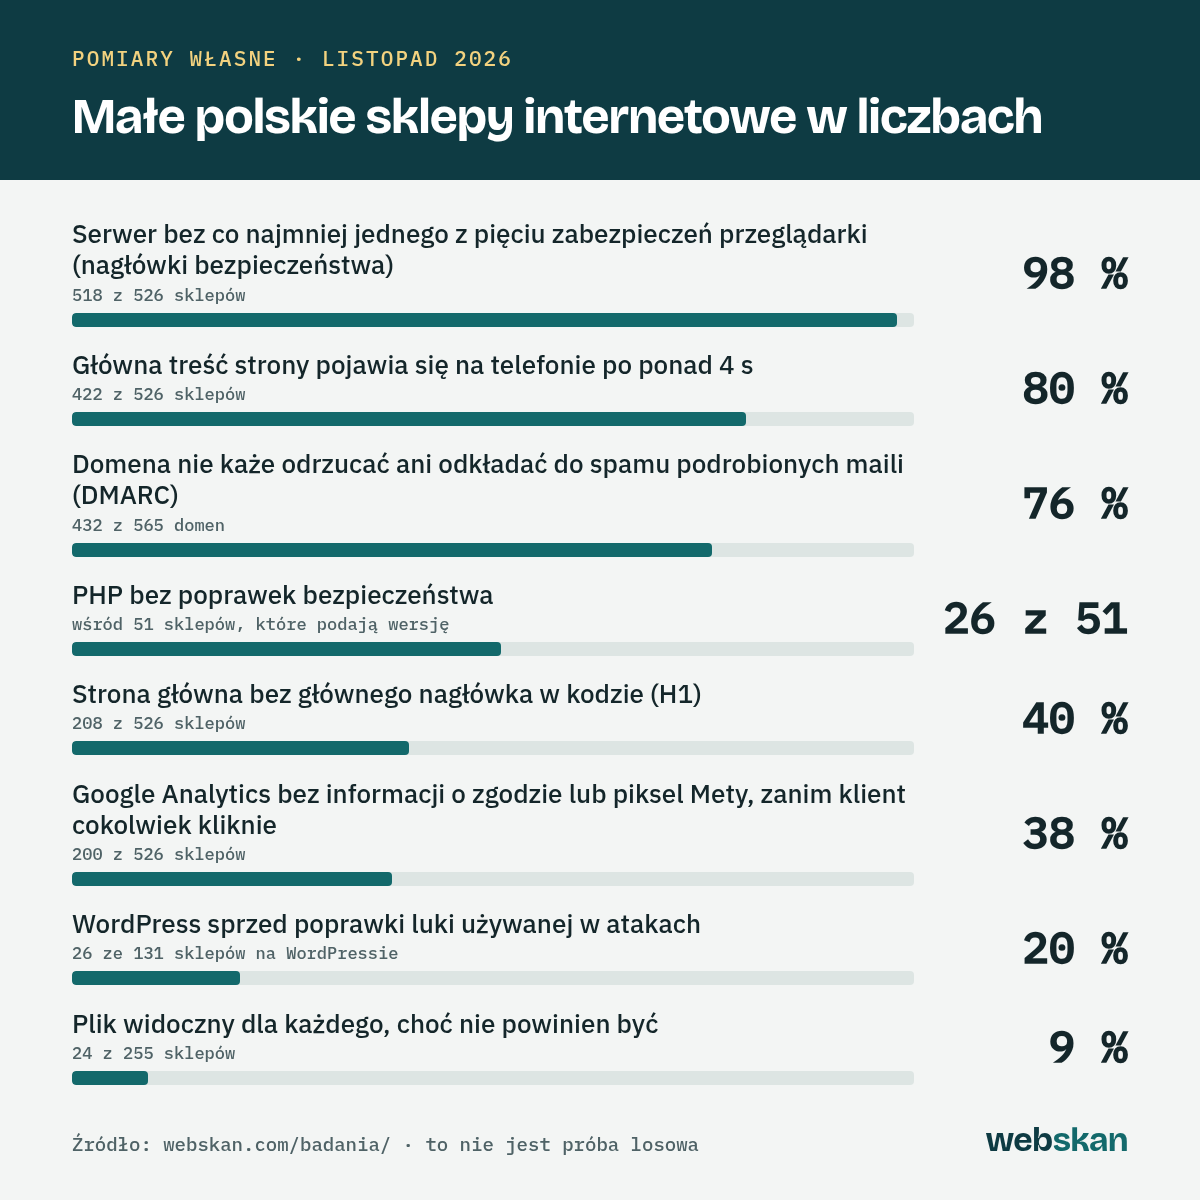
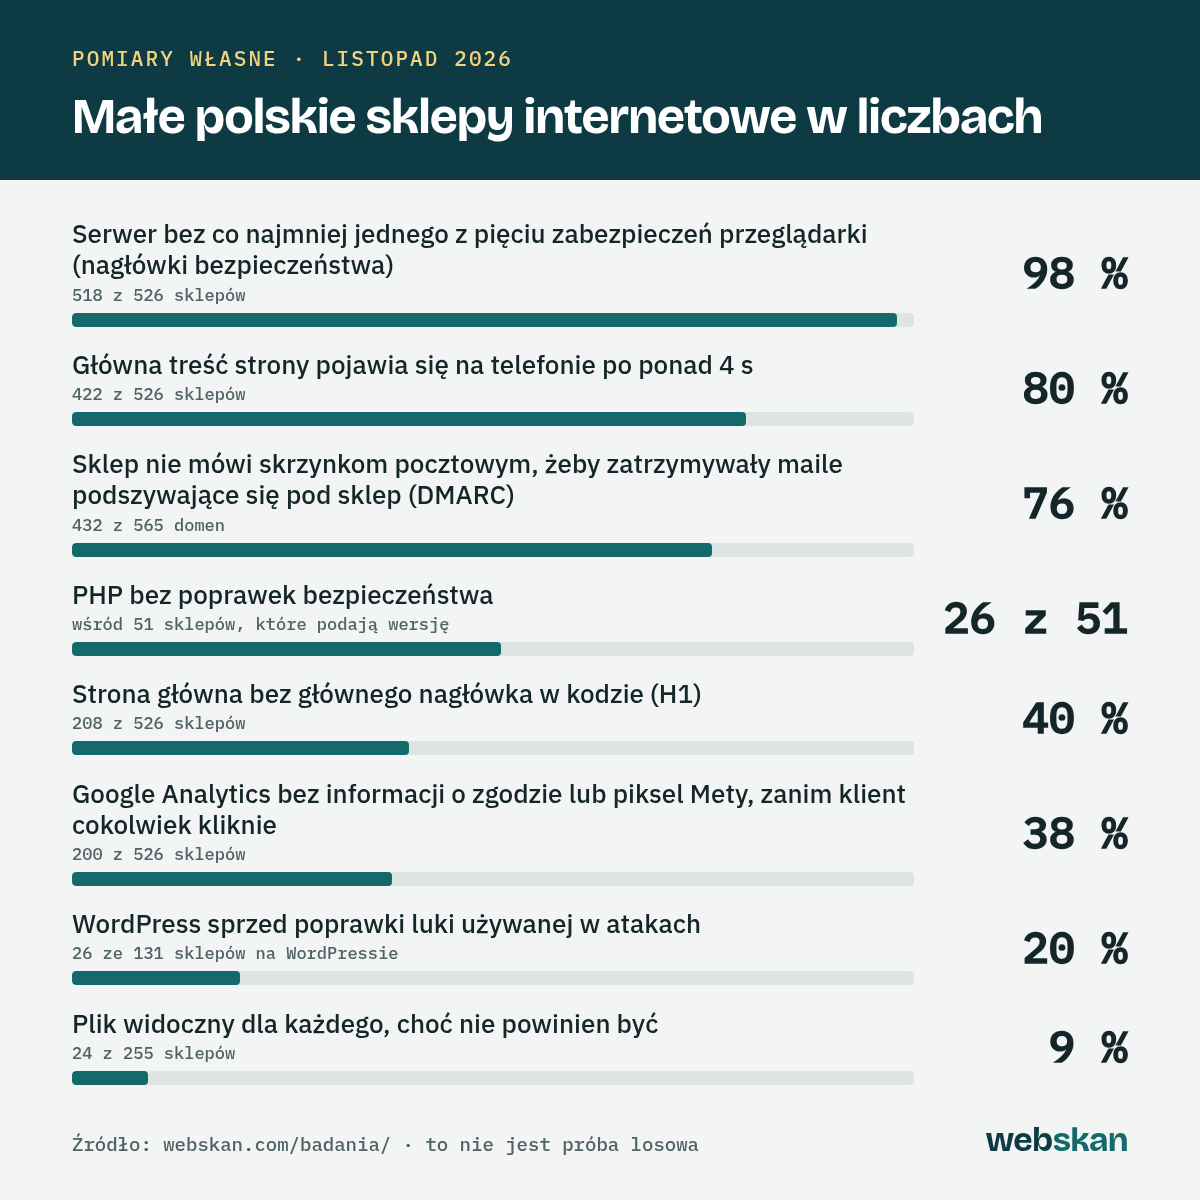
badania: przycisk skanu pod kartami i tabelą, etykiety tabeli pogrubione bez podkreślenia, wyniki krojem z kart, prostsze zdanie o poczcie, granica przed częścią techniczną, karty w dwóch szpaltach, skąd 547

Changed region(s): [[0.0617, 0.37, 0.74, 0.4317]]

diff --git a/public/badania/index.html b/public/badania/index.html
@@ -9,7 +9,8 @@
 <h1>Małe polskie sklepy internetowe w liczbach</h1>
 <p class="lead">Własne pomiary z listopada 2026 r.: szybkość, bezpieczeństwo, aktualizacje, poczta, analityka i podstawy SEO. Przy każdej liczbie jest próba, data pomiaru i metoda.</p>
 </section>
-<section class="kpis three" aria-label="Trzy liczby na początek"><a class="kpi" href="#szybkosc"><b>8,7 s</b><span>Tyle w typowym sklepie klient czeka na główną treść strony w teście na przeciętnym telefonie z wolnym łączem. To ponad dwa razy dłużej niż 4 s, od których Google ocenia szybkość jako słabą.</span><small>mediana z 526 sklepów · symulowany telefon · <span class="nw">27.11.2026</span></small></a><a class="kpi" href="#poczta"><b>3 z 4</b><span>Tyle domen sklepów nie każe odrzucać ani odkładać do spamu maili, w których ktoś podszywa się pod sklep. Fałszywa wiadomość z adresu sklepu może wtedy trafić do klienta.</span><small>432 z 565 domen · <span class="nw">26–27.11.2026</span></small></a><a class="kpi" href="#pliki"><b>1 z 11</b><span>W pomiarze z 9–11 listopada co jedenasty sklep miał na serwerze plik widoczny dla każdego, choć nie powinien: najczęściej stronę z konfiguracją serwera albo dziennik błędów.</span><small>24 z 255 sklepów · <span class="nw">9–11.11.2026</span></small></a></section>
+<section class="kpis three" aria-label="Trzy liczby na początek"><a class="kpi" href="#szybkosc"><b>8,7 s</b><span>Tyle w typowym sklepie klient czeka na główną treść strony w teście na przeciętnym telefonie z wolnym łączem. To ponad dwa razy dłużej niż 4 s, od których Google ocenia szybkość jako słabą.</span><small>mediana z 526 sklepów · symulowany telefon · <span class="nw">27.11.2026</span></small></a><a class="kpi" href="#poczta"><b>3 z 4</b><span>Tyle sklepów nie mówi skrzynkom pocztowym, żeby zatrzymywały maile podszywające się pod sklep. Fałszywa wiadomość z adresu sklepu może wtedy trafić do klienta.</span><small>432 z 565 domen · <span class="nw">26–27.11.2026</span></small></a><a class="kpi" href="#pliki"><b>1 z 11</b><span>W pomiarze z 9–11 listopada co jedenasty sklep miał na serwerze plik widoczny dla każdego, choć nie powinien: najczęściej stronę z konfiguracją serwera albo dziennik błędów.</span><small>24 z 255 sklepów · <span class="nw">9–11.11.2026</span></small></a></section>
+<p class="scan-cta"><a class="btn sm" href="/#skan">Sprawdź swój sklep, 30 sekund</a></p>
 <h2 id="zestawienie">Zestawienie</h2>
 <table class="sum why"><thead><tr><th scope="col">Wskaźnik i co oznacza dla sklepu</th><th scope="col">Próba</th><th scope="col">Wynik</th><th scope="col">Data pomiaru</th></tr></thead><tbody>
 <tr><th scope="row"><a href="#szybkosc">Typowa ocena szybkości na telefonie, w skali do 100 (mediana, czyli wynik środkowego sklepu; Lighthouse)</a><span class="why">Za dobry wynik Google uznaje 90 i więcej. Niska ocena oznacza zwykle, że klient na telefonie długo czeka albo strona przez chwilę nie reaguje.</span></th><td>526 sklepów</td><td class="v">58/100</td><td><span class="nw">27.11.2026</span></td></tr>
@@ -23,12 +24,14 @@
 <tr><th scope="row"><a href="#php">Serwer działa na wersji PHP, która nie dostaje już poprawek bezpieczeństwa</a><span class="why">Twórcy PHP nie łatają już nowo odkrytych luk w takiej wersji; część hostingów robi to sama, ale z zewnątrz tego nie widać. Wersję zmienia się zwykle w panelu hostingu.</span></th><td>51 sklepów podających wersję</td><td class="v">26 z 51</td><td><span class="nw">17.11.2026</span></td></tr>
 <tr><th scope="row"><a href="#securitytxt">Sklep podaje, komu zgłosić problem z bezpieczeństwem (własny, aktualny plik security.txt)</a><span class="why">Bez tego ktoś, kto znajdzie błąd, pisze na ogólny adres sklepu i nie wiadomo, czy wiadomość trafi do osoby, która może coś zrobić.</span></th><td>527 sklepów</td><td class="v">0,6 %</td><td><span class="nw">18.11.2026</span></td></tr>
 <tr><th scope="row"><a href="#soft404">Na adres, który nie istnieje, serwer odpowiada „wszystko w porządku” zamiast „nie ma takiej strony” (kod 200 zamiast 404)</a><span class="why">Google musi wtedy sam zgadywać, czy strona istnieje, a stary adres produktu może pokazywać w wynikach stronę główną. Narzędzia pilnujące sklepu nie zauważą, że strona zniknęła.</span></th><td>517 sklepów</td><td class="v">6,8 %</td><td><span class="nw">22.11.2026</span></td></tr>
-<tr><th scope="row"><a href="#poczta">Domena nie każe odrzucać ani odkładać do spamu poczty, w której ktoś podszywa się pod sklep (brak polityki DMARC quarantine lub reject)</a><span class="why">Fałszywa wiadomość z adresu sklepu, na przykład z prośbą o dopłatę, może trafić do skrzynki klienta.</span></th><td>565 domen sklepów</td><td class="v">76 %</td><td><span class="nw">26–27.11.2026</span></td></tr>
+<tr><th scope="row"><a href="#poczta">Sklep nie mówi skrzynkom pocztowym, żeby zatrzymywały maile podszywające się pod sklep (brak polityki DMARC quarantine lub reject)</a><span class="why">Fałszywa wiadomość z adresu sklepu, na przykład z prośbą o dopłatę, może trafić do skrzynki klienta.</span></th><td>565 domen sklepów</td><td class="v">76 %</td><td><span class="nw">26–27.11.2026</span></td></tr>
 <tr><th scope="row"><a href="#powiadomienia">Sklep zamknął odsłonięty plik w ciągu 4–6 dni od jednego zgłoszenia</a><span class="why">W pozostałych 13 sklepach plik był po 4–6 dniach nadal otwarty (dzień później zamknięty był jeszcze jeden), a żaden sklep nie odpisał. Warto mieć adres, pod którym ktoś czyta takie wiadomości.</span></th><td>17 sklepów</td><td class="v">4 z 17</td><td><span class="nw">11–17.11.2026</span></td></tr>
 </tbody></table>
+<p class="scan-cta"><a class="btn sm" href="/#skan">Sprawdź swój sklep, 30 sekund</a></p>
 <figure class="chart"><img src="/badania/wykres-sklepy-2026-11.png" width="1200" height="1200" loading="lazy" alt="Wykres słupkowy: osiem z trzynastu wskaźników z tabeli powyżej, z pomiarów małych polskich sklepów internetowych w listopadzie 2026 r."><figcaption>Wykres pokazuje osiem z trzynastu wskaźników z tabeli; pozostałe pięć jest tylko w tabeli. Do pobrania i wklejenia z podaniem źródła: <a href="/badania/wykres-sklepy-2026-11.png" download>plik PNG, 1200 × 1200</a>.</figcaption></figure>
 <p class="note">Liczby o sklepach pochodzą z list małych polskich sklepów internetowych układanych ręcznie według branż, bez dużych sieci. To nie są próby losowe ani reprezentatywne dla całego polskiego e-commerce. Mierzymy to, co widać z zewnątrz.</p>
 
+<p class="divide">Poniżej szczegóły i metoda dla osób technicznych.</p>
 <h2 id="pomiary">Pomiary sklepów</h2>
 <div class="studies">
 <article class="study" id="szybkosc">
@@ -77,7 +80,7 @@
 <p class="eyebrow">Aktualizacje · 51 sklepów · 17 listopada 2026</p>
 <h3>Wersja PHP w sklepach, które ją podają</h3>
 <ul class="bars"><li><span class="l">Wersja bez poprawek bezpieczeństwa (8.1 i starsze)</span><small>z 51</small><span class="t" aria-hidden="true"><i style="width:51%"></i></span><b>26</b></li><li><span class="l">PHP 8.2 – poprawki do 31 grudnia 2026</span><small>z 51</small><span class="t" aria-hidden="true"><i style="width:8%"></i></span><b>4</b></li><li><span class="l">PHP 8.3, 8.4 i 8.5</span><small>z 51</small><span class="t" aria-hidden="true"><i style="width:41%"></i></span><b>21</b></li></ul>
-<dl class="meta"><div><dt>Próba</dt><dd>51 sklepów, których serwer podaje wersję w nagłówku X-Powered-By, z 547 przeskanowanych</dd></div><div><dt>Metoda</dt><dd>jedno zapytanie o stronę główną; daty wsparcia wg php.net</dd></div><div><dt>Uwaga</dt><dd>to nie jest próba losowa – serwer, który ogłasza wersję, częściej jest też nieaktualizowany; wynik nie znaczy, że połowa wszystkich sklepów ma stare PHP</dd></div></dl>
+<dl class="meta"><div><dt>Próba</dt><dd>51 sklepów, których serwer podaje wersję w nagłówku X-Powered-By. Wybrane z 547 sklepów z tej samej listy 567 domen, których strona główna odpowiedziała w naszych skanach do 17.11; w późniejszych pomiarach odpowiadało ich od 517 do 527, zależnie od dnia</dd></div><div><dt>Metoda</dt><dd>jedno zapytanie o stronę główną; daty wsparcia wg php.net</dd></div><div><dt>Uwaga</dt><dd>to nie jest próba losowa – serwer, który ogłasza wersję, częściej jest też nieaktualizowany; wynik nie znaczy, że połowa wszystkich sklepów ma stare PHP</dd></div></dl>
 <p class="more"><a href="/blog/php-po-koncu-wsparcia/">Pełne opracowanie i zastrzeżenia →</a></p>
 </article>
 <article class="study" id="securitytxt">

diff --git a/public/style.css b/public/style.css
@@ -293,8 +293,8 @@ pre.cmd{background:var(--brand);color:#fff;border-radius:10px;padding:14px 16px;
 .res .sum th,.res .sum td{text-align:left;padding:11px 16px;border-bottom:1px solid #E8EDEC;vertical-align:baseline}
 .res .sum tbody tr:last-child th,.res .sum tbody tr:last-child td{border-bottom:0}
 .res .sum thead th{font:500 11.5px var(--mono);text-transform:uppercase;letter-spacing:.08em;color:var(--mute);background:#EDF1F0}
-.res .sum tbody th{font-weight:400}.res .sum tbody th a{display:inline-block;padding:3px 0;color:var(--ink);text-decoration-color:#B9C6C3}.res .sum tbody th a:hover{color:var(--brand2)}
-.res .sum td{font:500 13px/1.4 var(--mono);color:var(--soft)}.res .sum td.v{font:600 17px/1.2 var(--mono);color:var(--brand);white-space:nowrap}
+.res .sum tbody th{font-weight:400}.res .sum tbody th a{display:inline-block;padding:3px 0;color:var(--ink);font-weight:600;text-decoration:none}.res .sum tbody th a:hover,.res .sum tbody th a:focus-visible{text-decoration:underline}.res .sum tbody th a:hover{color:var(--brand2)}
+.res .sum td{font:500 13px/1.4 var(--mono);color:var(--soft)}.res .sum td.v{font:800 20px/1.2 var(--disp);letter-spacing:-.02em;color:var(--brand);white-space:nowrap}
 .res .chart{margin:28px 0 8px;max-width:640px}.res .chart img{display:block;border:1px solid var(--line);border-radius:14px}.res .chart figcaption{font-size:14.5px;color:var(--mute);margin-top:8px}.res .chart figcaption a{display:inline-block;padding:3px 0}
 @media (max-width:640px){.res .sum thead{position:absolute;width:1px;height:1px;overflow:hidden;clip-path:inset(50%)}.res .sum tbody tr{display:grid;grid-template-columns:minmax(0,1fr) auto;column-gap:12px;padding:11px 14px;border-bottom:1px solid #E8EDEC}.res .sum tbody tr:last-child{border-bottom:0}.res .sum th,.res .sum td{padding:0;border:0}.res .sum tbody th{grid-column:1;grid-row:1}.res .sum td.v{grid-column:2;grid-row:1 / span 2;text-align:right}.res .sum td:nth-child(2){grid-column:1;grid-row:2;margin-top:3px}.res .sum td:nth-child(4){grid-column:1;grid-row:3;font-size:12px;color:var(--mute)}}
 .res .kpis.three{grid-template-columns:repeat(3,minmax(0,1fr))}.res .kpis.three .kpi{padding:22px 22px 18px;gap:8px}.res .kpis.three .kpi b{font-size:clamp(38px,4.6vw,54px)}.res .kpis.three .kpi span{font-size:16.5px;line-height:1.4}
@@ -303,3 +303,6 @@ pre.cmd{background:var(--brand);color:#fff;border-radius:10px;padding:14px 16px;
 @media (max-width:900px){.res .kpis.three{grid-template-columns:1fr}}
 .res .meta.wide{max-width:900px;margin:8px 0 0;border-top:0}.res .sum.plain td{white-space:normal}
 @media (max-width:640px){.res .sum.plain tbody tr{display:block}.res .sum.plain tbody th{display:block;font-weight:600;margin-bottom:4px}.res .sum.plain td{display:block;margin-top:2px}.res .sum.plain td::before{content:attr(data-l) ": ";color:var(--mute)}}
+.res .scan-cta{margin:4px 0 26px}.btn.sm{min-height:44px;padding:8px 18px;font-size:15.5px}
+.res .divide{margin:44px 0 -8px;padding-top:22px;border-top:1px solid var(--line);font-size:16px;font-weight:600;color:var(--soft)}
+@media (min-width:901px){.res .studies{display:block;columns:2;column-gap:16px}.res .study{break-inside:avoid;margin:0 0 16px}}
